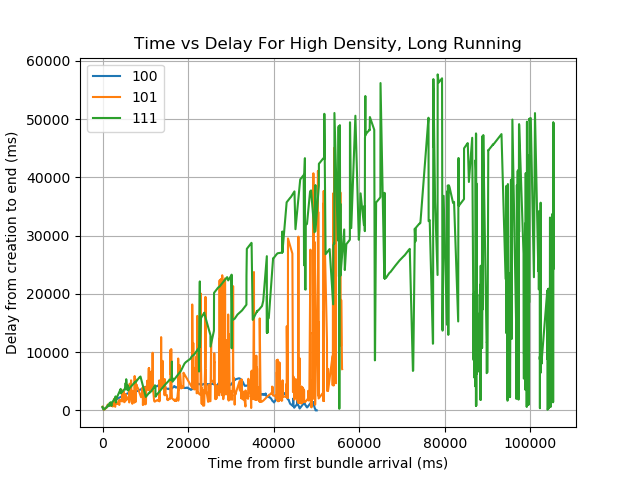
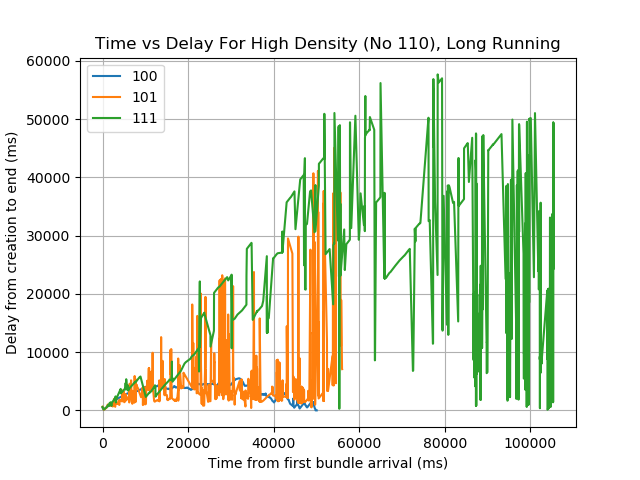
Edited graph.

Changed region(s): [[0.1562, 0.0625, 0.875, 0.125]]

diff --git a/mininet/50s_sums_logs_and_graphs/EndToEndLONG.py b/mininet/50s_sums_logs_and_graphs/EndToEndLONG.py
@@ -12,7 +12,7 @@ sims = []
 # sims.append((1011, "011"))
 sims.append((1100, "100"))
 sims.append((1101, "101"))
-sims.append((1110, "110"))
+# sims.append((1110, "110"))
 sims.append((1111, "111"))
 x = []
 y = []
@@ -72,10 +72,10 @@ for f in range(len(sims)):
     #print(x[f])
     ax.plot(x[f], y[f], label=sims[f][1])
 #format plot
-ax.set(xlabel='Time from first bundle arrival (ms)', ylabel='Delay from creation to end (ms)', title='Time vs Delay For High Density, Long Running')
+ax.set(xlabel='Time from first bundle arrival (ms)', ylabel='Delay from creation to end (ms)', title='Time vs Delay For High Density (No 110), Long Running')
 ax.grid()
 ax.legend()
 #show plot
 #plt.show()
-fig.savefig("EndToEndLONGHighDensity.png")#uncomment out this line to save to a file (recommended for command line)
+fig.savefig("EndToEndLONGHighDensity_No110.png")#uncomment out this line to save to a file (recommended for command line)
 # fig.savefig("EndToEndLONGLowDensity.png")#uncomment out this line to save to a file (recommended for command line)
